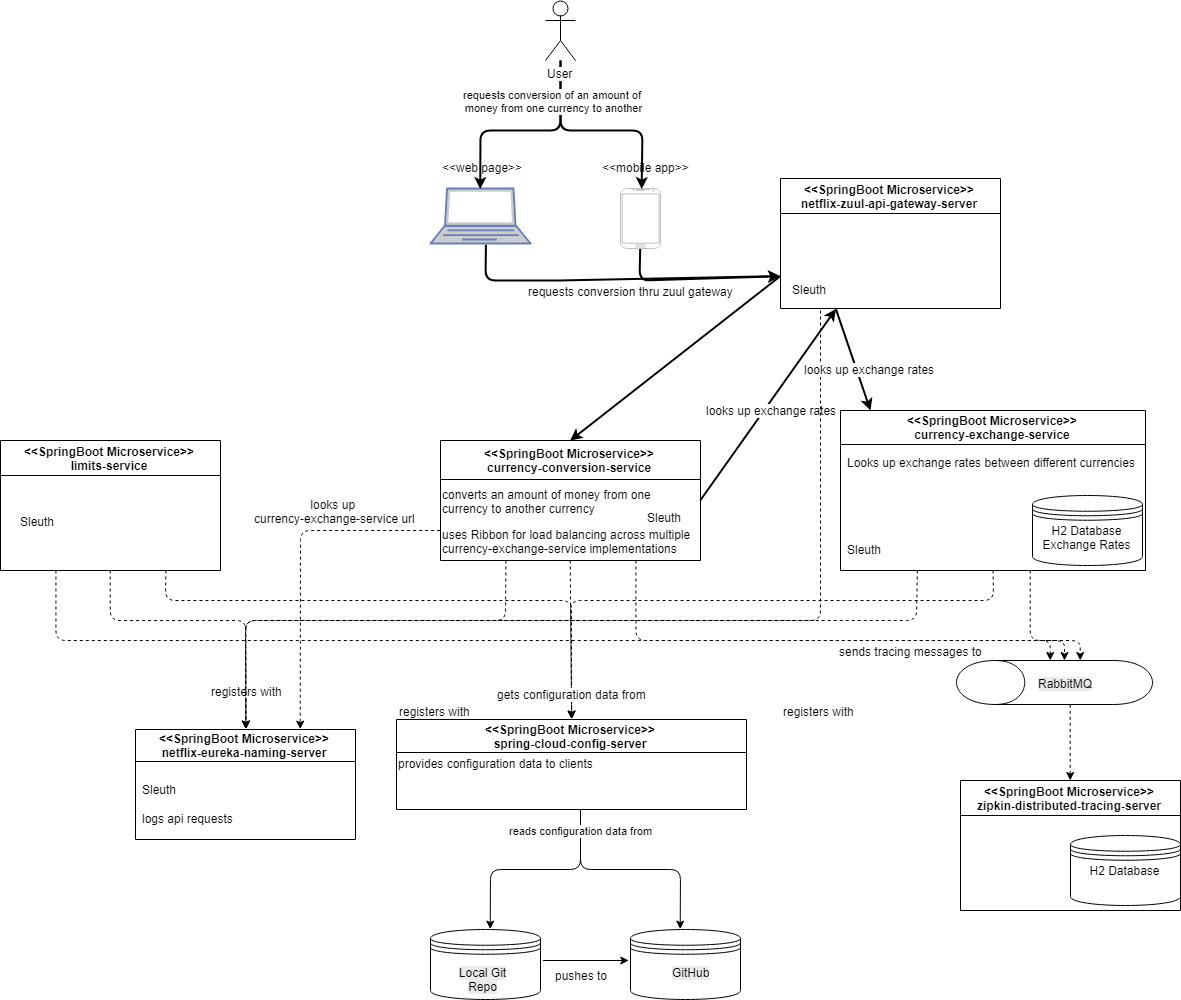
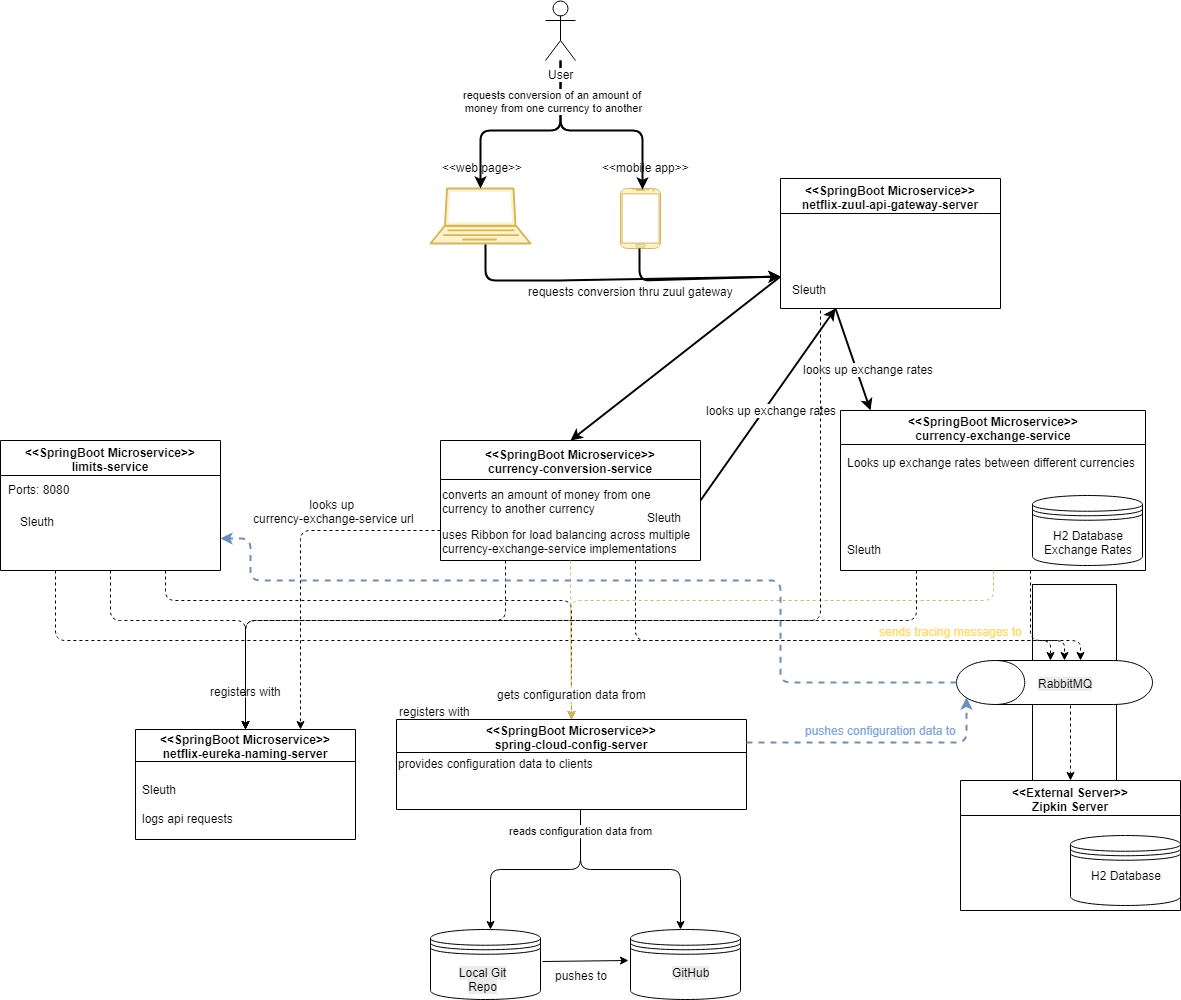
Spring cloud bus to push configuration changes through RabbitMQ

diff --git a/.readme.md.html b/.readme.md.html
@@ -727,6 +727,11 @@ function setDocumentScrollTop(ypos)
    <li><a href="https://spring.io/guides/gs/messaging-rabbitmq/" rel="nofollow">https://spring.io/guides/gs/messaging-rabbitmq/</a></li> 
    <li>compile('org.springframework.amqp:spring-rabbit')</li> 
   </ul> </li> 
+ <li> <p>Spring Cloud Starter Bus</p> 
+  <ul> 
+   <li>push config changes to services</li> 
+   <li>compile('org.springframework.cloud:spring-cloud-starter-bus-amqp')</li> 
+  </ul> </li> 
  <li> <p>Flyway</p> </li> 
  <li> <p>Continuous Delivery and Deployment to AWS, Google Cloud, Pivotal Cloud</p> </li> 
  <li> <p>Auto scaling, Erueka naming server, Ribbon</p> </li> 
@@ -834,7 +839,7 @@ function setDocumentScrollTop(ypos)
   </tr> 
   <tr> 
    <td>Spring Cloud Bus Refresh</td> 
-   <td><a href="http://localhost:8080/bus/refresh" rel="nofollow">http://localhost:8080/bus/refresh</a></td> 
+   <td><a href="http://localhost:8080/actuator/bus-refresh" rel="nofollow">http://localhost:8080/actuator/bus-refresh</a></td> 
   </tr> 
   <tr> 
    <td></td> 

diff --git a/readme.md b/readme.md
@@ -89,6 +89,9 @@ might have been used to do initial design and requirements gathering were this a
     * https://spring.io/guides/gs/messaging-rabbitmq/
     * compile('org.springframework.amqp:spring-rabbit')
   
+  * Spring Cloud Starter Bus
+    * push config changes to services
+    * compile('org.springframework.cloud:spring-cloud-starter-bus-amqp')
   
   * Flyway  
   * Continuous Delivery and Deployment to AWS, Google Cloud, Pivotal Cloud
@@ -138,7 +141,7 @@ might have been used to do initial design and requirements gathering were this a
 | Eureka                                       | http://localhost:8761/ |
 | Zuul - Currency Exchange & Exchange Services | http://localhost:8765/currency-exchange-service/currency-exchange/from/EUR/to/INR http://localhost:8765/currency-conversion-service/currency-converter-feign/from/USD/to/INR/quantity/10|
 | Zipkin                                       | http://localhost:9411/zipkin/ |
-| Spring Cloud Bus Refresh                     | http://localhost:8080/bus/refresh |
+| Spring Cloud Bus Refresh                     | http://localhost:8080/actuator/bus-refresh |
 |                                              |                                   |
 | H2 Console (currency-exchange-db)            | http://localhost:8000/h2-console  (use jbdc url: 'jdbc:h2:mem:testdb'                     |
 | RabbitMQ Console                             | http://localhost:15672/  (user guest, pw guest                     |
